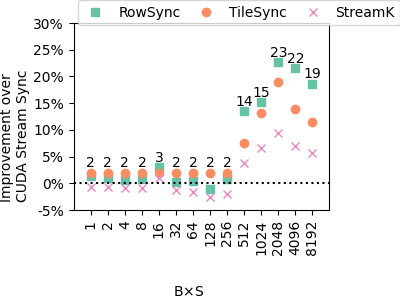
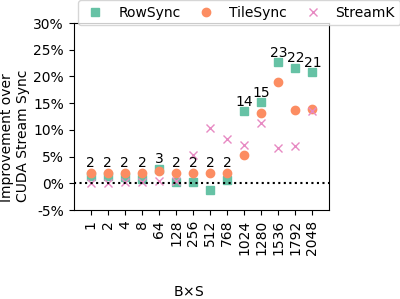
streamk for a100

diff --git a/src/ml-bench/transformer/eval_mlp.py b/src/ml-bench/transformer/eval_mlp.py
@@ -77,7 +77,19 @@ def genAndMakeStreamK(batchInfo):
   outFile = buildDir("streamk-eval.cu")
   tilesCode = """using ShapeMMAThreadBlock = cutlass::gemm::GemmShape<%d, %d, %d>;  
 using ShapeMMAWarp = cutlass::gemm::GemmShape<%d, %d, %d>;"""
-  tilesCode = tilesCode % tuple(batchInfo["TileSizes"])
+  tileSize = batchInfo[syncPolicy]["TileSizes"] if "TileSizes" in batchInfo["baseline"] else  batchInfo["TileSizes"]
+  if len(tileSize) > 1:
+    tilesCode = tilesCode % tuple(batchInfo["TileSizes"][0])
+  else:
+    tilesCode = tilesCode % tuple(batchInfo["TileSizes"])
+
+  NumStages = batchInfo[syncPolicy]["NumStages"] if "NumStages" in batchInfo["baseline"] else  batchInfo["NumStages"]
+  if isinstance(NumStages, list):
+    NumStages = NumStages[0]
+
+  numStagesCode = "const uint NumStages = %d;\n" % NumStages
+  tilesCode += numStagesCode
+
   fileContents = slurp(inFile)
   tilesCodeStart = fileContents.find("//<eval tiles>") + len("//<eval tiles>")
   tilesCodeEnd = fileContents.find("//</eval tiles>")
@@ -245,50 +257,26 @@ for case in cases:
 
     print(f'{m} & {H} & {"pytorch"} & {"%.2f"%float(ctime)}')
   
-  if False:
+  if True:
     genAndMakeStreamK(tiles[m])
-    if model == 'gpt3' or (model == 'llama' and attention_or_mlp == 'attention'):
-      streamk_command = buildDir("streamk-eval") + f" --m={m} --alpha=1 --beta=0 --iterations=20 "
-      (s, o) = subprocess.getstatusoutput(streamk_command + f"--n={int(FFN)} --k={H} " + f"--split={tiles[m]['baseline']['split_ks'][0]}")
-      if s != 0:
-        print("StreamK Error")
-        print(o)
+    streamk_command = buildDir("streamk-eval") + f" --m={m} --alpha=1 --beta=0 --iterations=20 "
+    (s, o) = subprocess.getstatusoutput(streamk_command + f"--n={int(FFN)} --k={H} " + f"--split={tiles[m]['baseline']['split_ks'][0]}")
+    if s != 0:
+      print("StreamK Error")
+      print(o)
 
-      firstGeMMStreamK = getStreamKTimes(o)
+    firstGeMMStreamK = getStreamKTimes(o)
 
-      (s, o) = subprocess.getstatusoutput(streamk_command + f"--n={H} --k={int(FFN)} " + f"--split={tiles[m]['baseline']['split_ks'][1]}")
-      if s != 0:
-        print("StreamK Error")
-        print(o)
+    (s, o) = subprocess.getstatusoutput(streamk_command + f"--n={H} --k={int(FFN)} " + f"--split={tiles[m]['baseline']['split_ks'][1]}")
+    if s != 0:
+      print("StreamK Error")
+      print(o)
 
-      secondGeMMStreamK = getStreamKTimes(o)
-      total = firstGeMMStreamK + secondGeMMStreamK
-      print(f'{m} & {H} & {"streamk"} & {"%.2f"%(firstGeMMStreamK*1000)} & {"%.2f"%(secondGeMMStreamK*1000)} & {"%.2f"%(total*1000)}')
-    elif model == 'llama' and attention_or_mlp == 'mlp':
-      streamk_command = buildDir("streamk-eval") + f" --m={m} --alpha=1 --beta=0 --iterations=20 "
-      (s, o) = subprocess.getstatusoutput(streamk_command + f"--n={int(FFN)} --k={H} " + f"--split={tiles[m]['baseline']['split_ks'][0]}")
-      if s != 0:
-        print("StreamK Error")
-        print(o)
-
-      firstGeMMStreamK = getStreamKTimes(o)
-
-      (s, o) = subprocess.getstatusoutput(streamk_command + f"--n={int(FFN)} --k={H} " + f"--split={tiles[m]['baseline']['split_ks'][0]}")
-      if s != 0:
-        print("StreamK Error")
-        print(o)
-
-      secondGeMMStreamK = getStreamKTimes(o)
-
-      (s, o) = subprocess.getstatusoutput(streamk_command + f"--n={H} --k={int(FFN)} " + f"--split={tiles[m]['baseline']['split_ks'][1]}")
-      if s != 0:
-        print("StreamK Error")
-        print(o)
-
-      thirdGeMMStreamK = getStreamKTimes(o)
-      total = firstGeMMStreamK + secondGeMMStreamK + thirdGeMMStreamK
-      print(f'{m} & {H} & {"streamk"} & {"%.2f"%(firstGeMMStreamK*1000)} & {"%.2f"%(secondGeMMStreamK*1000)} & {"%.2f"%(thirdGeMMStreamK*1000)} & {"%.2f"%(total*1000)}')
-    continue
+    secondGeMMStreamK = getStreamKTimes(o)
+    total = firstGeMMStreamK + secondGeMMStreamK
+    result_row = f'{m} & {seq} & {H} & {"streamk"} & {"%.2f"%(firstGeMMStreamK*1000)} & {"%.2f"%(secondGeMMStreamK*1000)} & {"%.2f"%(total*1000)}'
+    print(result_row)
+    results_csv += result_row + "\n"
 
   baselineDone = False
   bTimeTotal = 0

diff --git a/src/ml-bench/transformer/tile_sizes_db.py b/src/ml-bench/transformer/tile_sizes_db.py
@@ -844,25 +844,25 @@ llama_attention_v100 = {
   }
 
 gpt3_mlp_a100 = {
-  2048: {"TileSizes" : [[256, 128, 32, 64, 64, 32], [256, 128, 32, 64, 64, 32]],
-    "NumStages" : "3",
+  2048: {"TileSizes" : [[256, 128, 64, 64, 64, 64], [256, 128, 64, 64, 64, 64]],
+    "NumStages" : 3,
     "baseline": {"split_ks": [1,1]},
     "rowsync": {
       "TileSizes" : [[256, 128, 64, 64, 64, 64], [256, 128, 64, 64, 64, 64]],
       "split_ks": [1,1],
-      "NumStages" : "3",
+      "NumStages" : 3,
     },
     "tilesync": {"split_ks": [1,1],
                 "TileSizes" : [[256, 128, 64, 64, 64, 64], [256, 128, 64, 64, 64, 64]],
                   "split_ks": [1,1],
-                  "NumStages" : "3",
+                  "NumStages" : 3,
                 "AvoidCustomOrder": False,
                 "AvoidWaitKernel": False,
                 "ReorderTileLoads": True,
                 "NoAtomicAdd": True}
   },
   1792: {"TileSizes" : [[256, 128, 32, 64, 64, 32], [256, 128, 32, 64, 64, 32]],
-    "NumStages" : "5",
+    "NumStages" : 5,
     "baseline": {"split_ks": [2,1]},
     "rowsync": {"split_ks": [2,1]},
     "tilesync": {"split_ks": [2,1],
@@ -872,7 +872,7 @@ gpt3_mlp_a100 = {
                 "NoAtomicAdd": True}
   },
   1536: {"TileSizes" : [[128, 256, 32, 64, 64, 32], [256, 128, 32, 64, 64, 32]],
-    "NumStages" : "5",
+    "NumStages" : 5,
     "baseline": {"split_ks": [2,1]},
     "rowsync": {"split_ks": [2,1]},
     "tilesync": {"split_ks": [2,1],
@@ -892,7 +892,7 @@ gpt3_mlp_a100 = {
                 "NoAtomicAdd": True}
   },
   1024: {"TileSizes" : [[256, 128, 32, 64, 64, 32], [256, 128, 32, 64, 64, 32]],
-    "NumStages" : "4",
+    "NumStages" : 4,
     "baseline": {"split_ks": [3,1]},
     "rowsync": {"split_ks": [3,1]},
     "tilesync": {"split_ks": [3,1],
@@ -902,7 +902,7 @@ gpt3_mlp_a100 = {
                 "NoAtomicAdd": True}
   },
   768: {"TileSizes" : [[128, 256, 64, 64, 64, 64], [128, 256, 64, 64, 64, 64]],
-    "NumStages" : "3",
+    "NumStages" : 3,
     "baseline": {"split_ks": [3,1]},
     "rowsync": {"split_ks": [4,1]},
     "tilesync": {"split_ks": [4,1],
@@ -912,7 +912,7 @@ gpt3_mlp_a100 = {
                 "NoAtomicAdd": True}
   },
   512: {"TileSizes" : [[128, 256, 64, 64, 64, 64], [128, 256, 64, 64, 64, 64]],
-    "NumStages" : "3",
+    "NumStages" : 3,
     "baseline": {"split_ks": [1,1]},
     "rowsync": {"split_ks": [1,1]},
     "tilesync": {"split_ks": [1,1],
@@ -922,7 +922,7 @@ gpt3_mlp_a100 = {
                 "NoAtomicAdd": True}
   },
   256: {"TileSizes" : [[128, 256, 64, 64, 64, 64], [128, 256, 64, 64, 64, 64]],
-    "NumStages" : "3",
+    "NumStages" : 3,
     "baseline": {"split_ks": [2,1]},
     "rowsync": {"split_ks": [2,1],
                   "AvoidWaitKernel": True,

diff --git a/src/ml-bench/plots/plotGPT.py b/src/ml-bench/plots/plotGPT.py
@@ -78,17 +78,16 @@ rowIdx = 0
 while rowIdx < len(data):
     # print(rowIdx)
     row = data[rowIdx]
-    m += [int(row[mInd])]
     i = 0
-    while rowIdx < len(data) and i < (5 if attention_or_mlp == 'mlp' else 6):
+    while rowIdx < len(data) and i < (4 if attention_or_mlp == 'mlp' else 6):
         row = data[rowIdx]
         if row[syncTypeInd] == 'streamk':
             streamK += [float(row[streamkInd])]
         elif row[syncTypeInd] == 'rowsync':
             rowOverlap += [float(row[overlapInd])]
         elif row[syncTypeInd] == 'baseline':
+            m += [int(row[mInd])]
             baseline += [float(row[baselineInd])]
-            streamK += [float(row[streamkInd])]
         elif row[syncTypeInd] == 'tilesync':
             tileOverlap += [float(row[overlapInd])]
         elif row[syncTypeInd] == 'stridedsync':
@@ -109,12 +108,13 @@ if __name__ == "__main__":
     rowOverlap = np.array(rowOverlap)
     stdevRowOverlap = np.array(stdevRowOverlap)
     tileOverlap = np.array(tileOverlap)
+    streamK = np.array(streamK)
     stdevTileOverlap = np.array(stdevTileOverlap)
     analyticalOverlapTimes = np.array(analyticalOverlapTimes)
 
     rowSpeedup = (baseline - rowOverlap)/baseline*100
     tileSpeedup = (baseline - tileOverlap)/baseline*100
-    streamKSpeedup = tileSpeedup/2
+    streamKSpeedup = (baseline - streamK)/baseline*100
 
     for i in range(len(rowSpeedup)):
         if rowSpeedup[i] < -2:
@@ -167,7 +167,7 @@ if __name__ == "__main__":
     plt.axhline(0, color='black', ls='dotted')
     # plt.yticks(np.arange(0, 1.25, 0.25))
     if attention_or_mlp == "mlp":
-        xt = list((2**i for i in range(0, len(ind))))
+        xt = list(m)
         plt.xticks(ind, xt, rotation=90)
         
         plt.ylabel('Improvement over \nCUDA Stream Sync')
